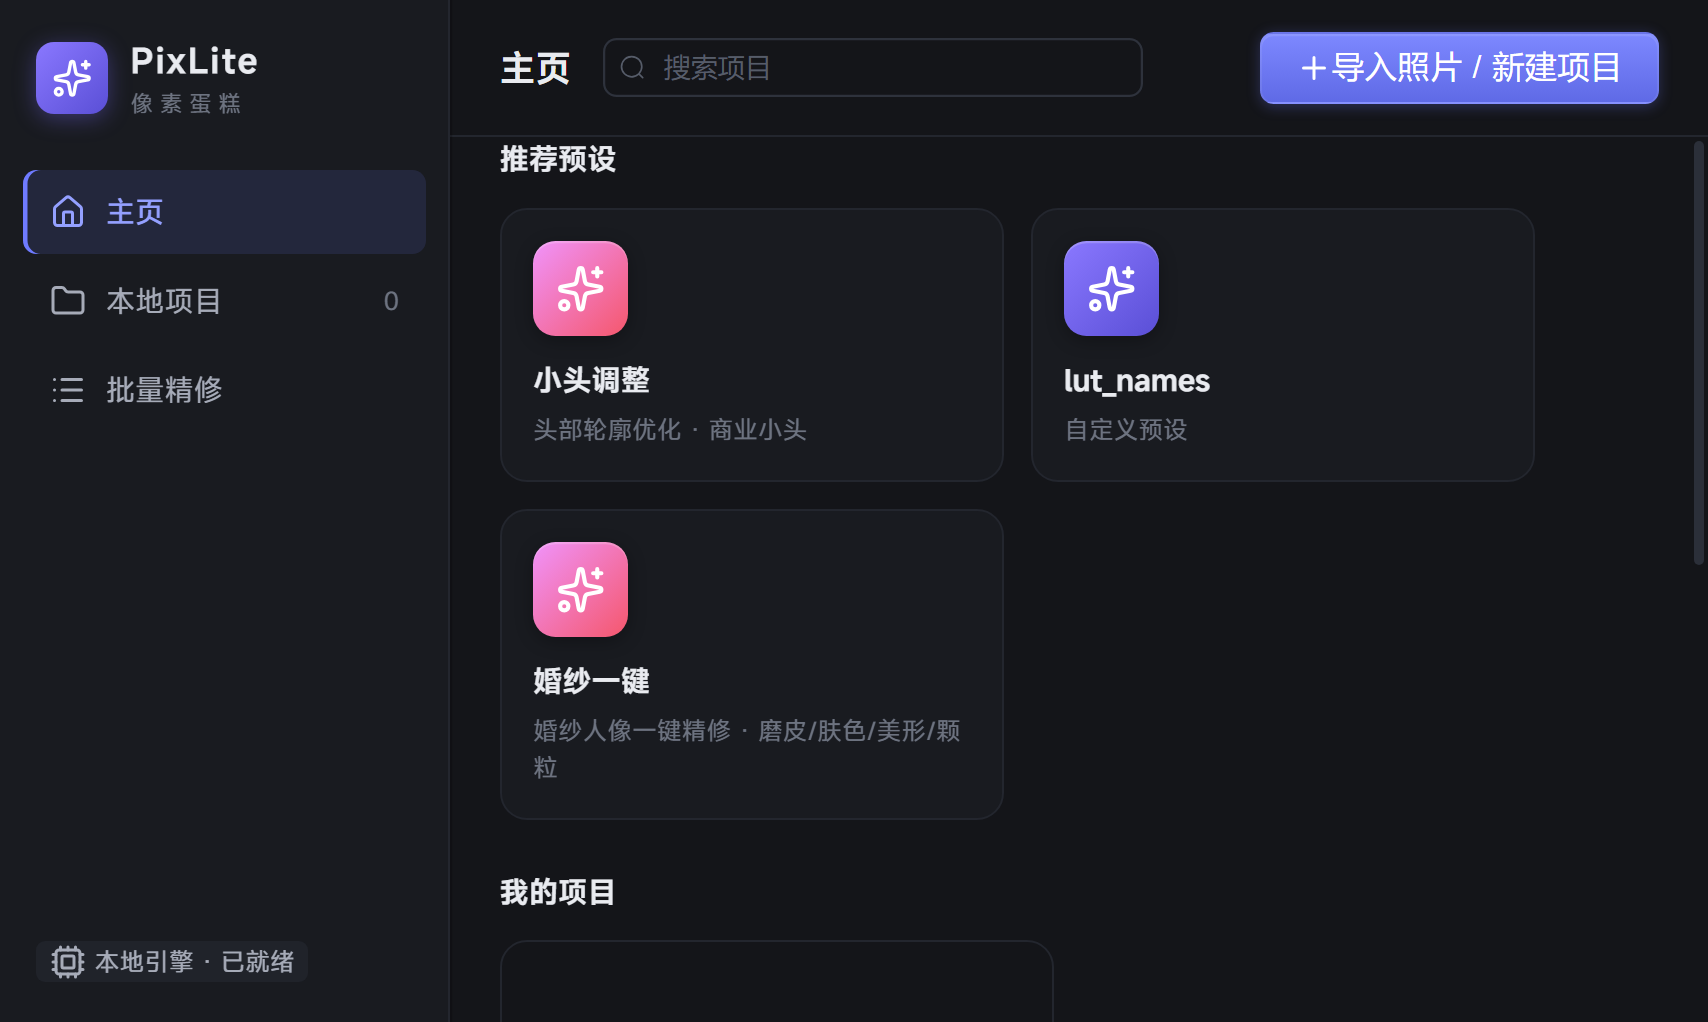
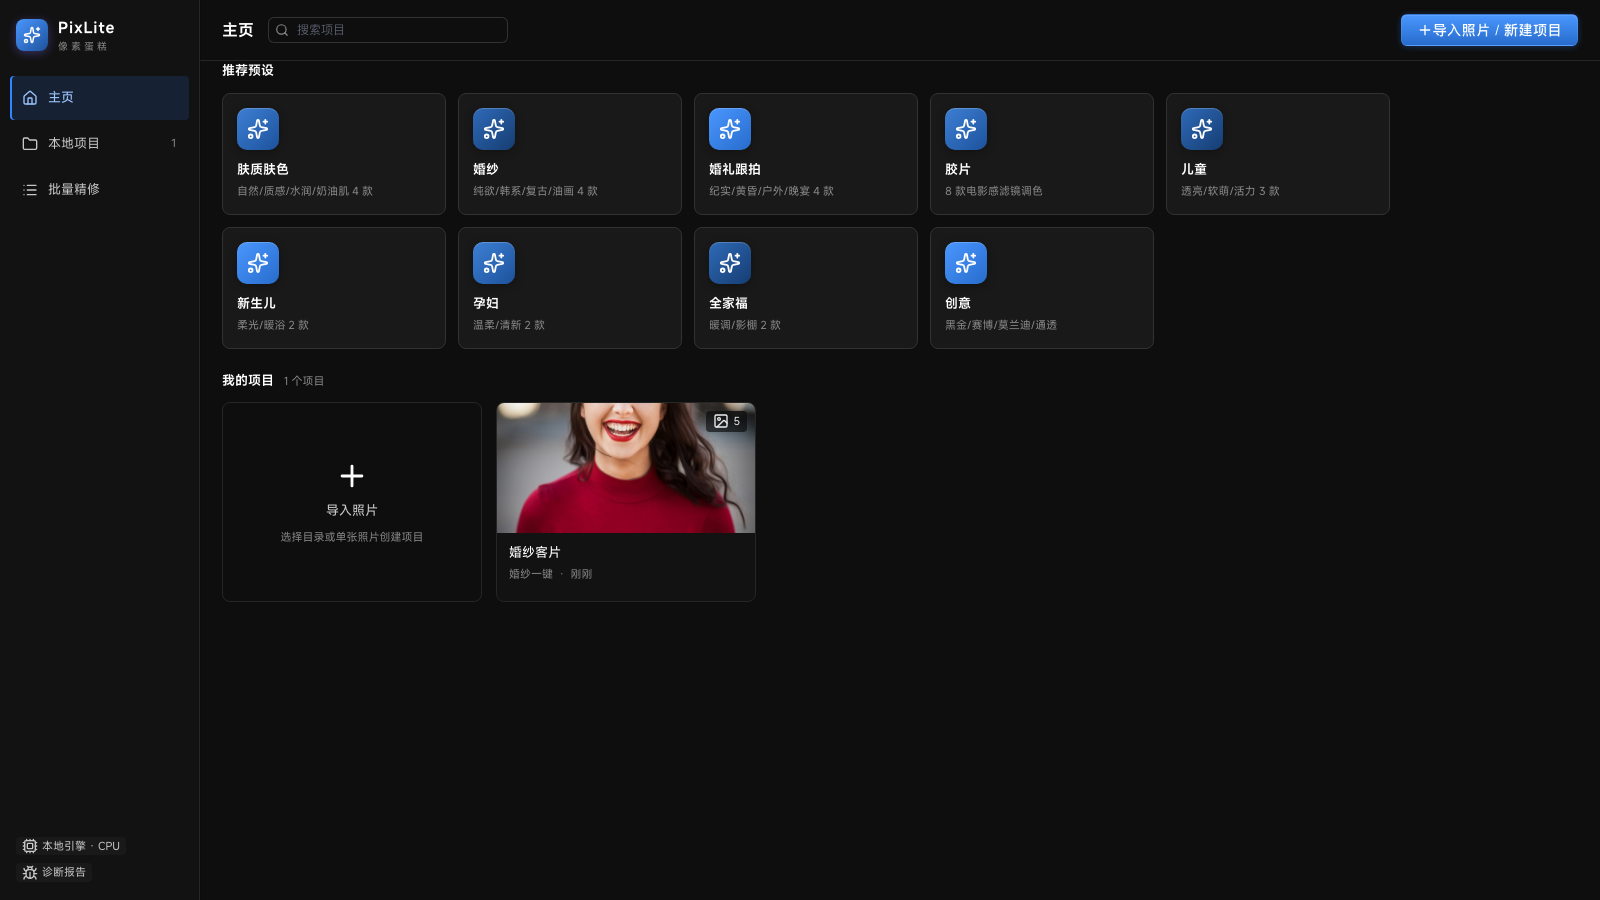
docs: refresh README screenshots for 0.1.12-beta.5
- workspace / home screenshots re-captured from a beta.5 build (the old
  workspace shot was from v0.1.9 and still listed removed presets)
- new "场景预设效果" section with a beta.4 vs beta.5 comparison of four presets,
  rendered from fixtures kept in tests/ (ag_female2, ag_male_old,
  ag_female_old, female_test), and a note on what tests/test_preset_quality.py
  does and does not catch

diff --git a/readme.md b/readme.md
@@ -4,7 +4,7 @@
 
 > 当前为 **Beta** 版（`v0.1.12-beta.5`）。功能和界面对标像素蛋糕 10.0.5 的人像精修流程，仍有部分功能未实现（见[已知限制](#已知限制)）。欢迎在 [Issues](https://github.com/pm-parker/pixlite/issues) 反馈问题。
 
-![工作台](docs/final_screens/workspace.png)
+![工作台：左侧场景预设，中间为套用「自然磨皮」后的结果，右侧人像美化滑杆](docs/final_screens/workspace.png)
 
 ## 功能
 
@@ -20,6 +20,21 @@
 | 加速 | CPU 默认可用；自动探测 NVIDIA CUDA、AMD MIGraphX / ROCm、Intel OpenVINO（Windows 上为 DirectML），失败时回退 CPU |
 
 所有效果都在本地运行（OpenCV + onnxruntime），不调用任何云端服务。滑杆与引擎算法的对应关系见 [CAPABILITY_MAP.md](CAPABILITY_MAP.md)。
+
+![主页：9 类场景预设和项目列表](docs/final_screens/home.png)
+
+### 场景预设效果
+
+beta.5 修复了套用预设后照片崩坏的问题（明细见 [BUGFIX_REPORT.md](BUGFIX_REPORT.md#预设效果修复v0112-beta5)）。下图是同一张照片套用同一个预设，在 beta.4 和 beta.5 上的输出，照片均为仓库 `tests/` 目录里的测试图：
+
+- **自然磨皮**：beta.4 把整张脸提亮成一块，边缘有锯齿。
+- **婚纱一键**：beta.4 把偏亮的照片（白 T 恤）整体压暗发灰。
+- **质感肌**：beta.4 把偏暗的照片整体提亮，天空高光溢出。
+- **户外草坪**：beta.4 使用的滤镜是黑白滤镜，整张图褪色，脸部过曝。
+
+![同一张照片、同一个预设在 beta.4 与 beta.5 上的输出对比](docs/final_screens/preset_compare.jpg)
+
+预设效果由 `tests/test_preset_quality.py` 持续检查：每个预设按界面的真实参数出图，亮度变化、高光溢出、结构相似度超出阈值时 CI 失败（「日系」滤镜本身偏暗，用到它的两个预设暂不检查亮度，见[已知限制](#已知限制)）。这项检查只能发现明显崩坏，观感是否符合预期仍需人工判断。
 
 ## 在飞牛 fnOS 上安装
 
